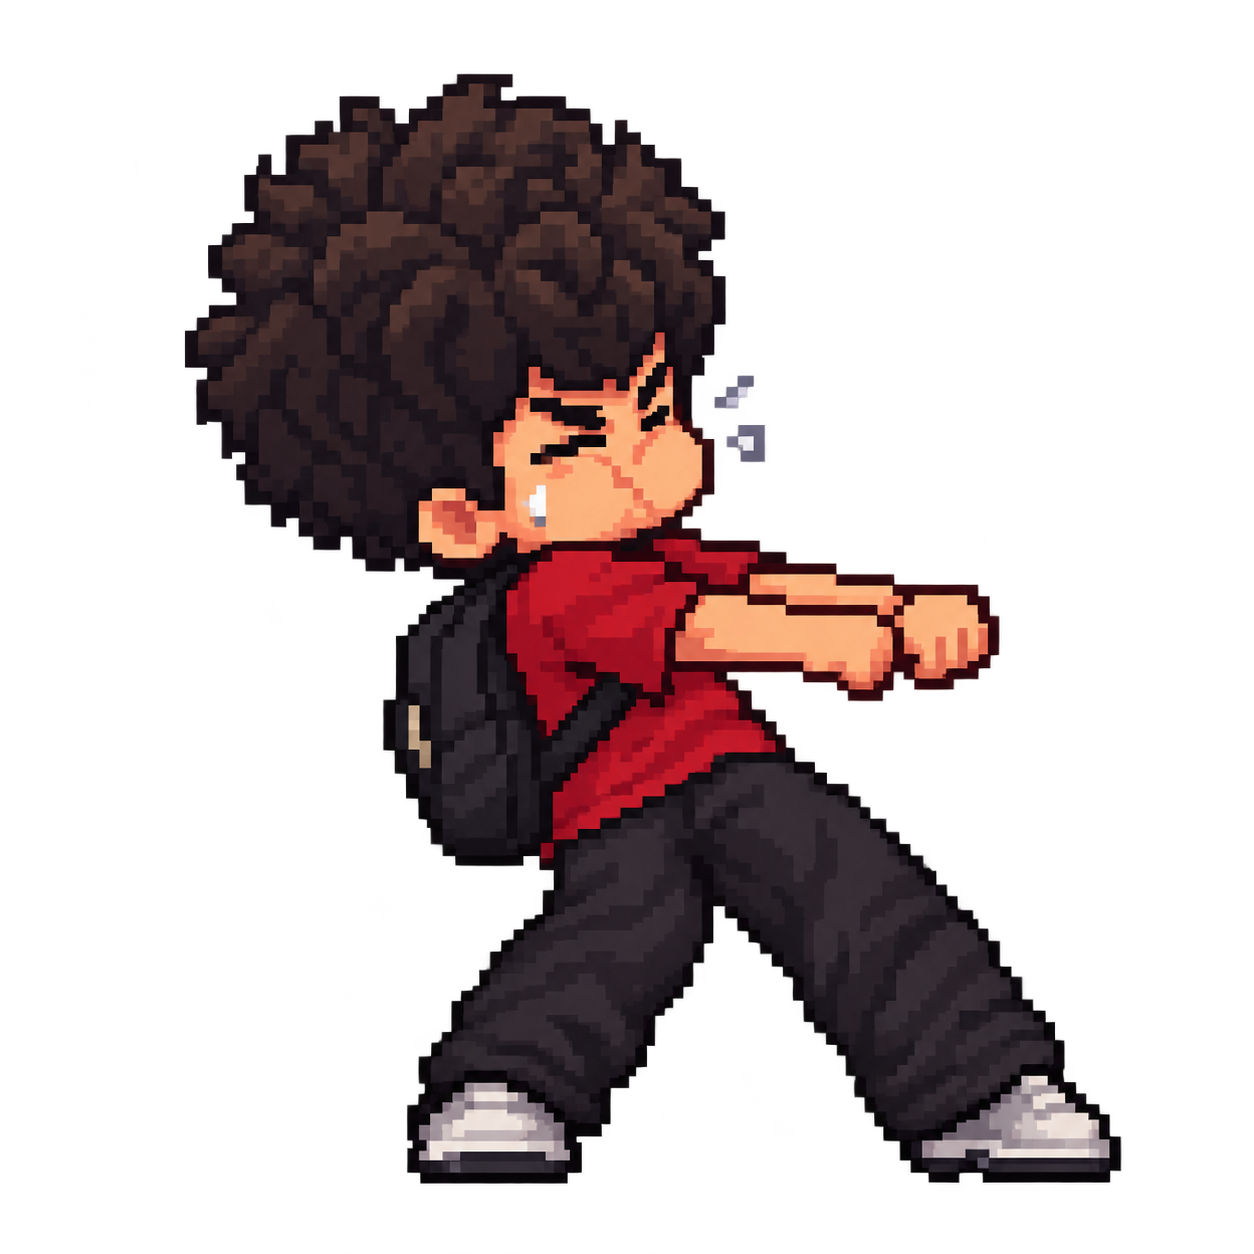
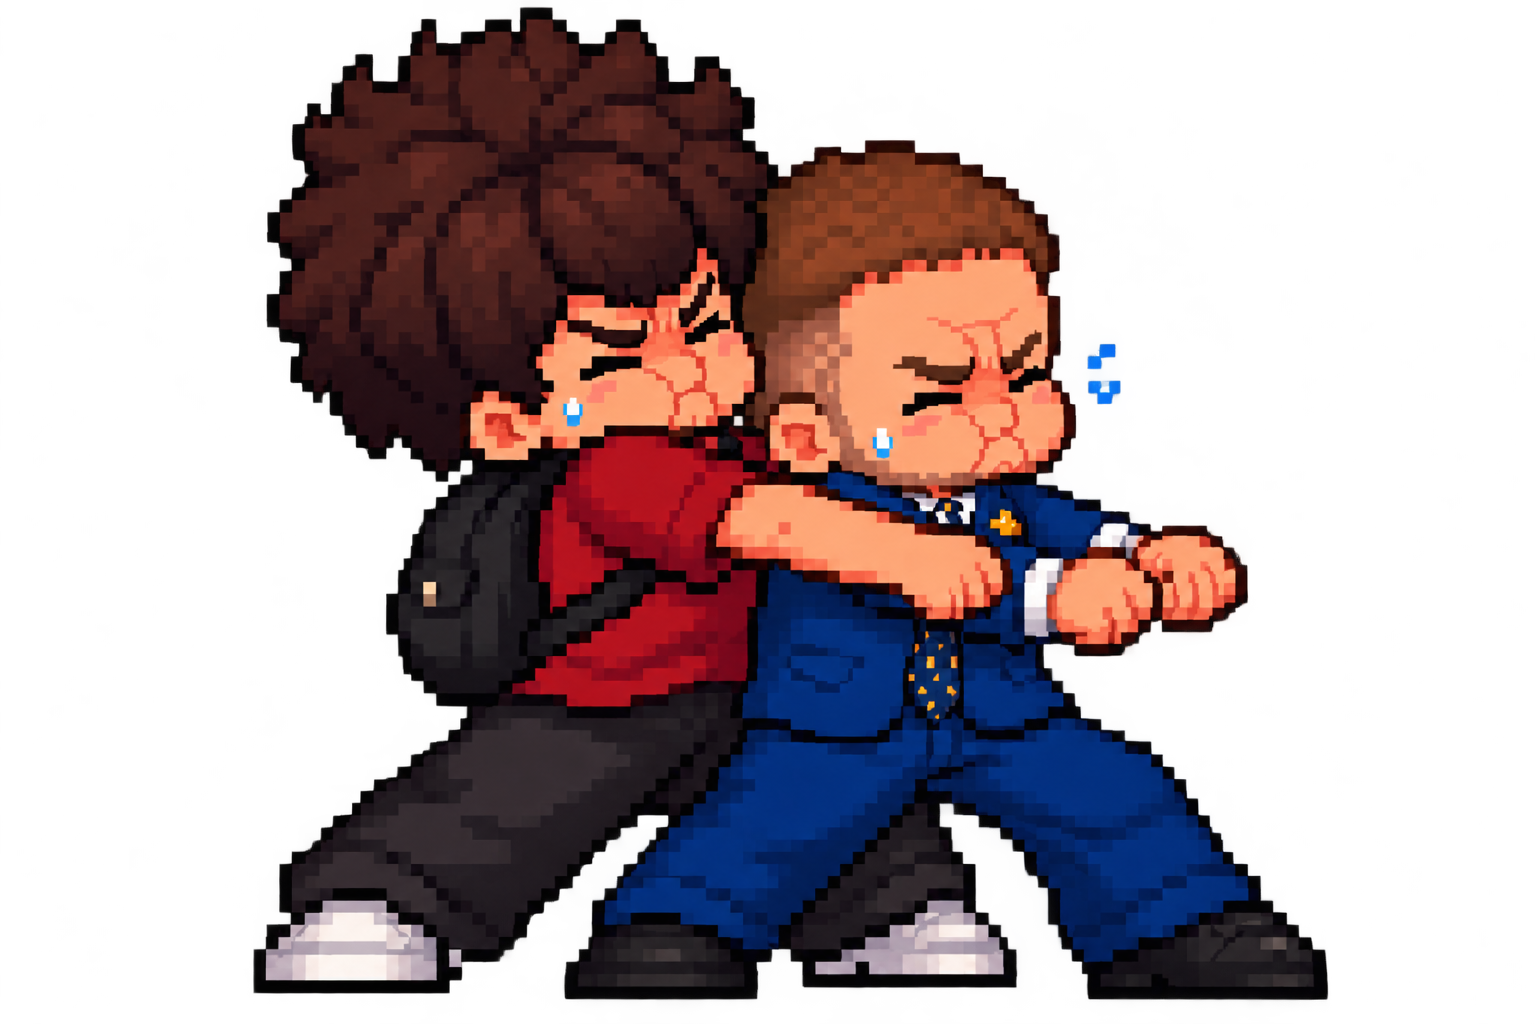
updates

diff --git a/src/stages/ThirdStage.jsx b/src/stages/ThirdStage.jsx
@@ -85,7 +85,7 @@ export default function ThirdStage({ onPrevious }) {
   const hasChangedText = messageIndex !== null
   const availableMessages = [
     <>Хочу, чтобы ты тоже вспомнил <span className="stage-three__heart">❤</span></>,
-    <>Каждый момент на этих фотографиях я до сих пор помню отчётливо</>,
+    <>Каждый момент на этих фотографиях я до сих пор отчётливо помню </>,
     <>И каждый из них вызывает у меня два приятных чувства:</>,
     <>Ностальгия, и…</>,
     <>Эрекция 😏</>,

diff --git a/src/App.jsx b/src/App.jsx
@@ -12,15 +12,15 @@ const TRANSITION_FAILSAFE_BUFFER_MS = 500
 
 // Position offsets are in pixels: positive X = right, positive Y = down.
 const PULL_THREAD = {
-  length: 92,
-  angle: -35,
+  length: 140,
+  angle: -18,
   offsetX: -2,
-  offsetY: -22,
+  offsetY: 30,
 }
 
 const PULLER = {
   offsetX: -60,
-  offsetY: 0,
+  offsetY: -14,
 }
 
 function StageThreePullOverlay({ onCovered }) {

diff --git a/src/stages/ThirdStage.css b/src/stages/ThirdStage.css
@@ -486,5 +486,5 @@
 
 /* The final slideshow caption is intentionally a little quieter. */
 .stage-three__message--last-caption {
-  font-size: calc(clamp(1.8rem, 4.2vw, 3.5rem) - 16px) !important;
+  font-size: calc(clamp(1.8rem, 4.2vw, 3.5rem) - 12px) !important;
 }
